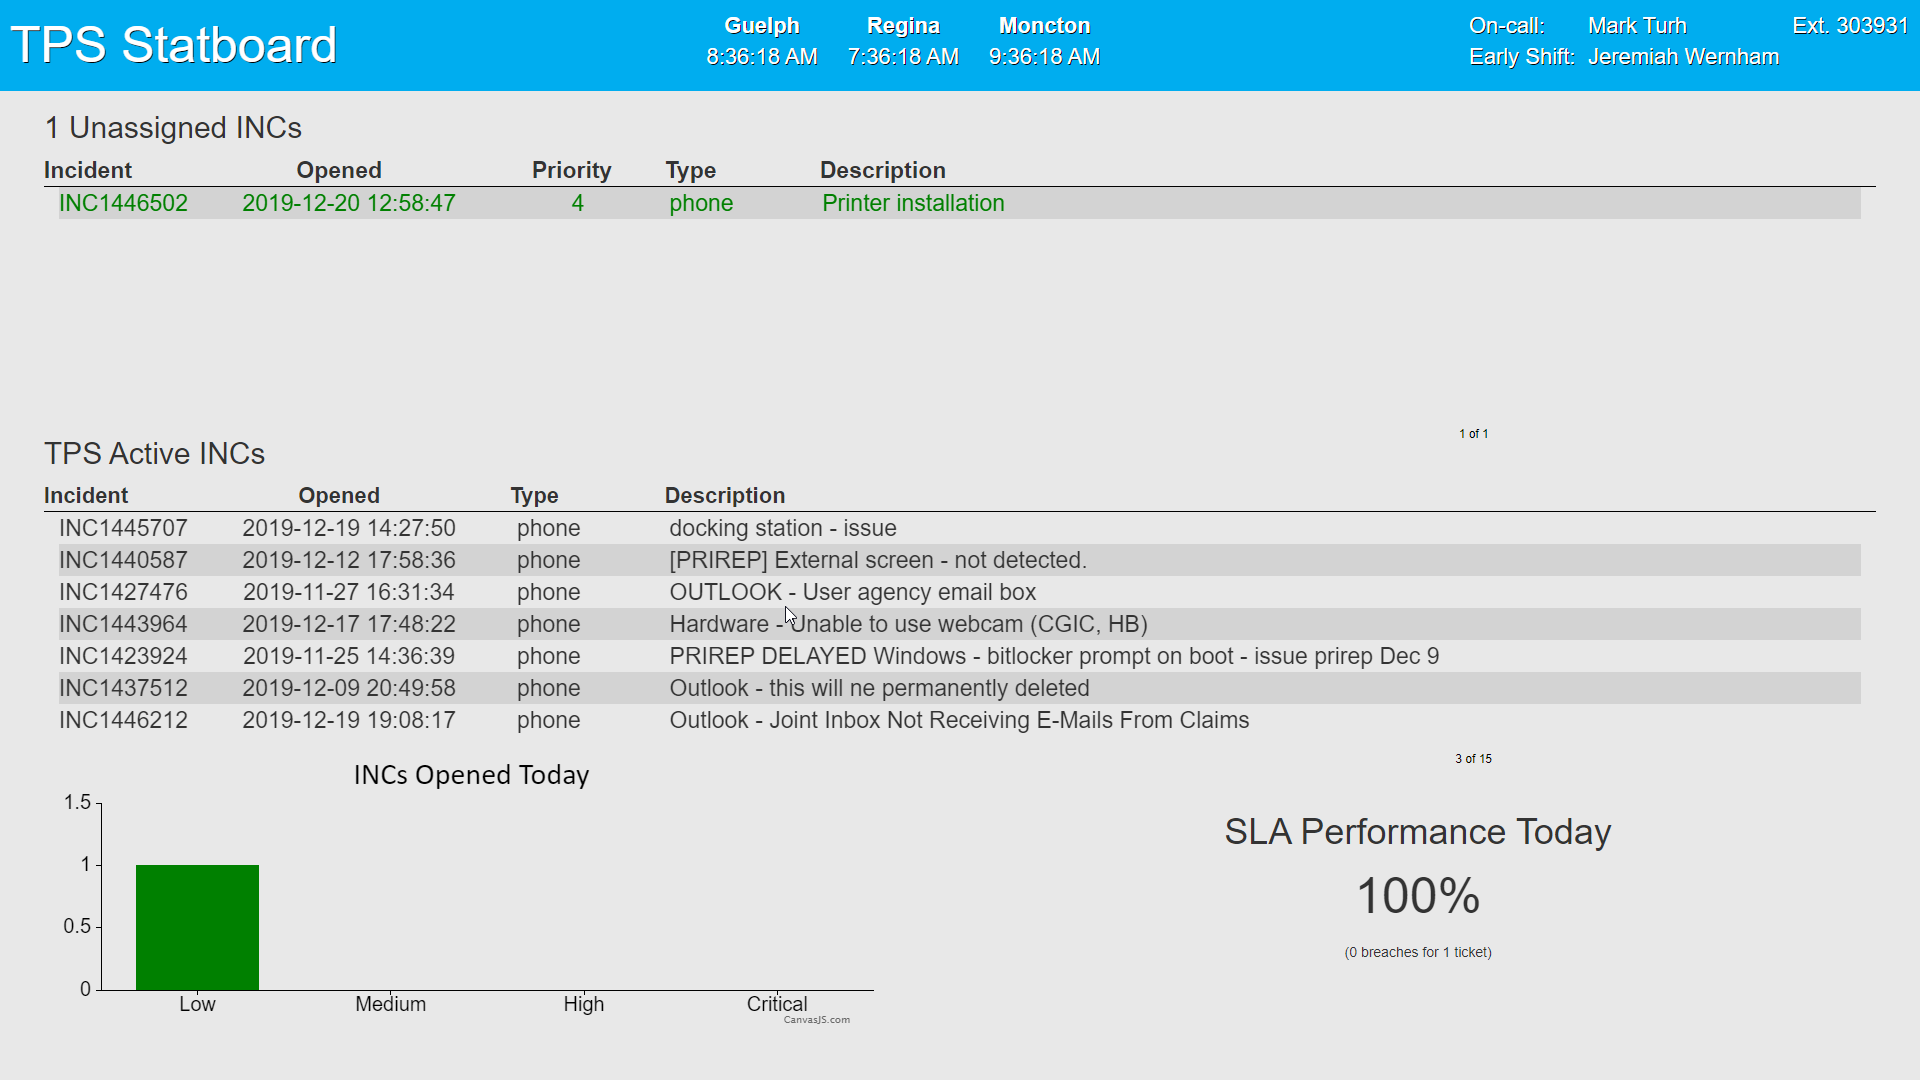
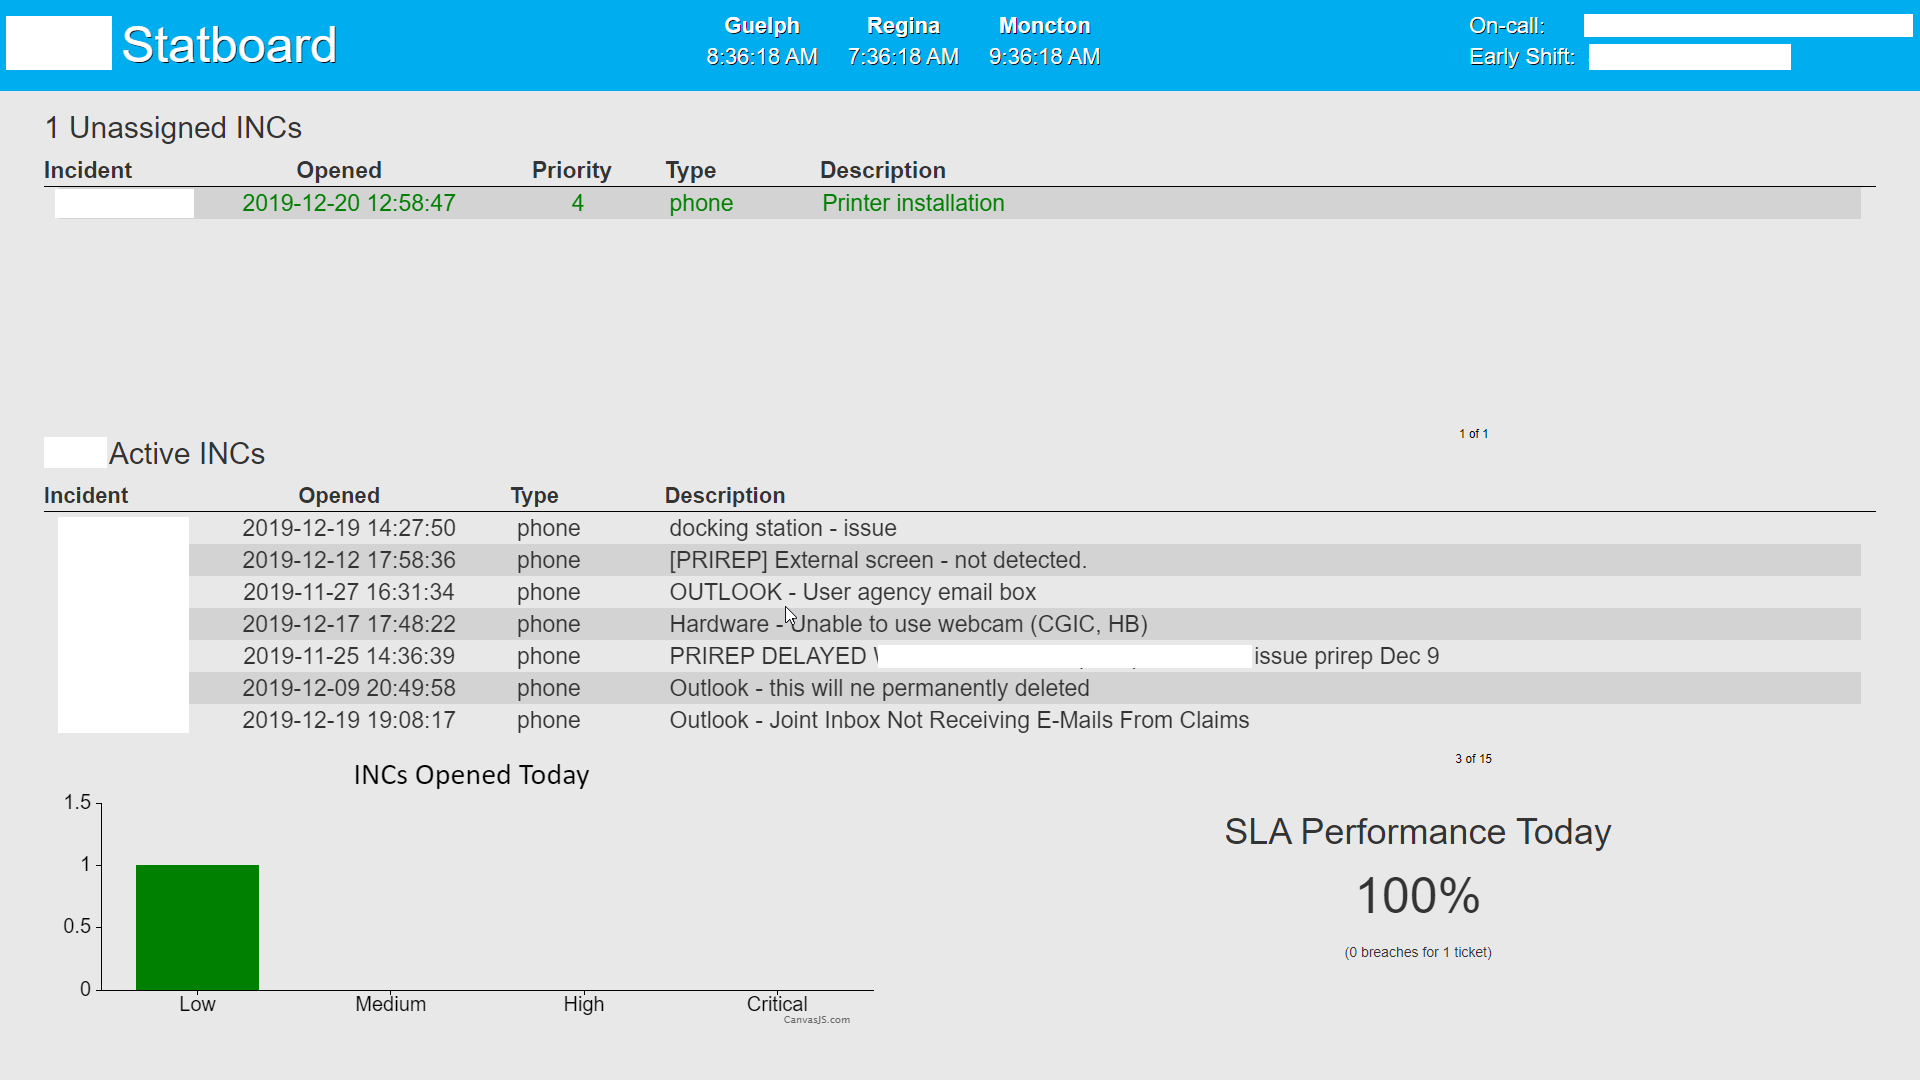
updaing content

diff --git a/post.html b/post.html
@@ -42,6 +42,9 @@
             <a class="nav-link" href="about.html">Abstract</a>
           </li>
           <li class="nav-item">
+            <a class="nav-link" href="conclusion.html">Conclusion</a>
+          </li>
+          <li class="nav-item">
             <a class="nav-link" href="post.html">Most Recent Report</a>
           </li>
           </li>
@@ -101,35 +104,158 @@
             is to aid in client service and provide competent and coherent support to people who can have any degree of 
             technical knowledge.</p>
 
-          <blockquote class="blockquote">The dreams of yesterday are the hopes of today and the reality of tomorrow. Science has not yet mastered prophecy. We predict too much for the next year and yet far too little for the next ten.</blockquote>
-
           <p>General technical knowledge came easy to me as the Software Engineering program is very technical, 
             and so I was made previously aware of most of the common software that is used for productivity. 
             However, companies often have proprietary software that is built to the specific needs of the company. 
             I needed to learn the software and technologies as I went throughout the role in order to be able to 
             provide an adequate level of support.</p>
 
-            <p>Before coming into this role, I knew very little about the physical components of a computer. 
-              This role allowed me to develop my knowledge of the inner workings of a computer’s hardware. 
-              As a Software Engineering student, we typically focus on software topics and design, not so 
-              much practical hardware.</p>
+            <p>Communication is a critical skill in this role, as most of the work you are doing is remote. 
+              Not every person who calls in an issue will be located in the same building, or even province 
+              as you. You need to be able to communicate information effectively via the phone, email or other 
+              means in order to provide optimal client service. Often times, you are dealing with technical 
+              issues with people who are not in the tech field, so their knowledge of more in depth computer 
+              concepts can be at any level. You need to convey the necessary information that is both understandable 
+              to every person’s individual level of knowledge/comfort and respectable. You cannot assume that the 
+              person will know more in-depth terms/technical jargon, but you cannot be condescending in an explanation. 
+              Being flexible with your communication is key. This is a concept that I had to learn as I went through 
+              the role, as I was learning a lot of the technologies used at The Co-operators as I went along. 
+              I needed to gain the confidence to speak to clients on the phone and explain to them what the 
+              issue was and the steps that needed to be taken in order to remedy them.</p>
+
+              <p>Customer service goes hand in hand with communication, one cannot have great customer service 
+                without great communication. Clients need to know that they are being treated as a priority, and 
+                that their issue will be taken care of. Providing great customer service means that you combine 
+                all the necessary skills for this job. You need to have the technical knowledge to identify and 
+                solve the issue, you need to be able to adequately communicate the information to the client, 
+                all in a respectful, timely manner. I have had prior experience with customer service in a 
+                different context, however. I worked at McDonald’s throughout my high school career and dealt 
+                with customers firsthand. This is a much less technical customer service role, but many of the 
+                same principles apply. You must be able to have the knowledge to satisfy the customer’s needs, 
+                you need to communicate to the customer the information necessary to move to the next steps in 
+                the process, all in a timely, respectful manner. My time at McDonald’s helped me to provide 
+                excellent customer service, I just needed to apply these principles in a more technical context. 
+                My communication skills needed to grow to expand the technical terminology and corporate formalities 
+                associated with the company. My technical knowledge also needed to grow to incorporate the different 
+                technologies and proprietary software used at the company. Overall, customer service is the defining 
+                skill for this role, and my skills in this field have dramatically increased since starting this role.</p>
+
+                <blockquote class="blockquote">"I've learned that people will forget what you said, people will forget what you did, but people will never forget how you made them feel." Maya Angelou</blockquote>
+            <p>Before coming into this role, I knew very little about the physical components of a computer. This role allowed 
+              me to develop my knowledge of the inner workings of a computer’s hardware. As a Software Engineering student, 
+              we typically focus on software topics and design, not so much practical hardware, and in this role, people can 
+              have issues with any part of their computer, either software or hardware. I developed my hardware skills and 
+              gained the confidence to open up a computer and reseat components and replace parts that needed replacing.</p>
 
           <h2 class="section-heading">Goals</h2>
+          <p>Throughout my term, I had a set of goals that I tried to reach. I set a total of four goals for myself: </p>
+          <ul>
+            <li>
+              <p>1. COMMUNICATING - Oral Communication</p>
+              <ul>
+                <li>
+                  <p>To develop professional communication skills within an office setting. Learn to effectively 
+                    communicate what is on my mind, whether it be suggestions, questions/concerns, or problems I am experiencing</p>
+                </li>
+              </ul>
+            </li>
+            <li>
+              <p>2. CRITICAL & CREATIVE THINKING - Problem Solving</p>
+              <ul>
+                <li>
+                  <p>Be able to solve various problems in varying contexts - 
+                    even if I have little experience with the related content.</p>
+                </li>
+              </ul>
+            </li>
+            <li>
+              <p>3. PROFESSIONAL & ETHICAL BEHAVIOUR – Teamwork</p>
+              <ul>
+                <li>
+                  <p>Learn to be a team player in a professional work environment. That is, to learn how to know your 
+                    role or position and do your work well and on time.</p>
+                </li>
+              </ul>
+              <li>
+                <p>4.	CRITICAL & CREATIVE THINKING - Problem Solving</p>
+                <ul>
+                  <li>
+                    <p>Develop some sort of automation tool/helper to automate some process or to make a 
+                      process easier for the team.</p>
+                  </li>
+                </ul>
+              </li>
+            </li>
+          </ul>
 
-          <p>As we got further and further away, it [the Earth] diminished in size. Finally it shrank to the size of a marble, the most beautiful you can imagine. That beautiful, warm, living object looked so fragile, so delicate, that if you touched it with a finger it would crumble and fall apart. Seeing this has to change a man.</p>
+          <p>I was able to successfully develop these skills and reach these goals throughout 
+            the work term with the help of my mentor and team members.</p>
 
-          <a href="#">
-            <img class="img-fluid" src="img/post-sample-image.jpg" alt="">
-          </a>
-          <span class="caption text-muted">To go places and do things that have never been done before – that’s what living is all about.</span>
+            <p>Goal 1:</p>
+            <p>
+              This position was my first real corporate experience, professional communication is very different 
+              form everyday casual communication. Learning corporate lingo and formalities was necessary to present 
+              myself professionally in the workplace. One specific aspect of communication I aspired to develop was my 
+              ability to ask professional questions. This is a useful skill as it is helpful to get all the information 
+              you need when faced with a task or challenge. I was tasked with a stretch assignment in which I had 
+              limited knowledge, so, I set up a call with the person who previously worked on the assignment so that 
+              I could learn the ins and outs from them. This was a measure in my development in this area, if my professional 
+              communication was not up to par, I might not have been able to acquire all of the necessary information to get 
+              that project off the ground.
+            </p>
 
-          <p>Space, the final frontier. These are the voyages of the Starship Enterprise. Its five-year mission: to explore strange new worlds, to seek out new life and new civilizations, to boldly go where no man has gone before.</p>
+            <p>Goal 2:</p>
+            <p>
+              Problem solving is the core of what was done day to day as a Technical Support Analyst. We are faced 
+              with an issue, we must find the underlying root cause, and fix said issue. I wanted to gain knowledge 
+              and experience with a wide variety of issues so that I could expand the breadth of my technical knowledge. 
+              I wanted to tackle all types of issues, even those that I had little prior experience with, as those often 
+              teach you the most. As a Software Engineering student, we don’t often deal a whole lot with hardware, and 
+              when we do, it is often at a very high level. This role allowed me to tackle both software and hardware issues. 
+              I learned a great deal of troubleshooting techniques for both hardware and software. Alongside this, I tackled 
+              all of the shift duties involved with the team as well. This involved an early shift, late shift, and 
+              being on-call. The different shifts all have their own specific duties (specific duties left out for 
+              confidentiality). I was able to perform all of the shift duties adequately and confidently. I feel my 
+              problem-solving skills have vastly improved from this position, and this will help me in any field of study 
+              I pursue.
+            </p>
 
-          <p>As I stand out here in the wonders of the unknown at Hadley, I sort of realize there’s a fundamental truth to our nature, Man must explore, and this is exploration at its greatest.</p>
+            <p>
+              Goal 3:</p>
+              <p>
+              When working in a team, being a team player is critical. If you are not a team player, you will not see 
+              much success. Academically, most of the work I do is solo, there is very limited group work. This is not 
+              the case in this role, however. Most of the things you do are as a team, or you have a team to back you up 
+              in case you are struggling. This is a bit of a change in my typical working dynamic, and I wanted to develop 
+              this skill, as I believe that it will help me in any professional endeavors down the road. Specifically, 
+              I wanted to learn to know my role within the team and know when a responsibility, task, or idea should be 
+              brought to another person/team’s attention. The idea that two heads are better than one was thoroughly 
+              exemplified in this role. Often times, if I was struggling with an issue, I would have my own assumptions 
+              about the issue, and would get “tunnel vision” in regard to my perspective on the issue. It usually only 
+              took another pair of eyes to see what my assumptions were, or to simply gain a new perspective to get 
+              another step in the process. I believe that my teamwork capabilities were definitely improved during my term.
+            </p>
 
-          <p>Placeholder text by
-            <a href="http://spaceipsum.com/">Space Ipsum</a>. Photographs by
-            <a href="https://www.flickr.com/photos/nasacommons/">NASA on The Commons</a>.</p>
+            <p>Goal 4:</p>
+            <p>
+              This was a very personal goal, as I wanted to do something outside of the day to day work of helping clients 
+              with computer issues. I wanted to help the team in some way with a piece of software or a script that could 
+              be useful in one way or another. I was lucky enough to be given a stretch assignment to re-build our team’s 
+              stat-board. This stat-board is displayed to the entire team and showcases some useful data and stats for the 
+              team. The stat-board’s main purpose was to show the currently unassigned incidents that were assigned to my 
+              team. The unassigned incidents were colour-coded to represent whether or not they have breached, about to 
+              breach, or have not breached the team’s service level agreement (SLA). The stat-board also displayed the 
+              times in the other offices where members of the team were located so that we have a quick resource to see 
+              if someone is expected to be in or out of the office at a certain time. The board also displayed the team 
+              members who were assigned the certain shift duties in the current week. This was a great opportunity for 
+              me to develop my professional problem-solving skills in a more technical sense, as the project was using 
+              languages that I have had very little experience with from school or otherwise (PowerShell and C#). 
+              I had to learn a lot of concepts as I went, and I was happy to get a stable, working product for the team. 
+              I believe this project will help me in future endeavors where I have little or no prior experience.
+            </p>
+
+            <img class="img-fluid" src="img/TPS Statboard.png" alt="Statboard image">
+          <span class="caption text-muted">A screenshot of the end result of the Stat-board I built for the team (some information blocked for confidentiality).</span>
 
           <h2 class="section-heading">Acknowledgements</h2>
 

diff --git a/about.html b/about.html
@@ -42,6 +42,9 @@
             <a class="nav-link" href="about.html">Abstract</a>
           </li>
           <li class="nav-item">
+            <a class="nav-link" href="conclusion.html">Conclusion</a>
+          </li>
+          <li class="nav-item">
             <a class="nav-link" href="post.html">Most Recent Report</a>
           </li>
         </ul>

diff --git a/index.html b/index.html
@@ -42,6 +42,9 @@
             <a class="nav-link" href="about.html">Abstract</a>
           </li>
           <li class="nav-item">
+            <a class="nav-link" href="conclusion.html">Conclusion</a>
+          </li>
+          <li class="nav-item">
             <a class="nav-link" href="post.html">Most Recent Report</a>
           </li>
         </ul>
